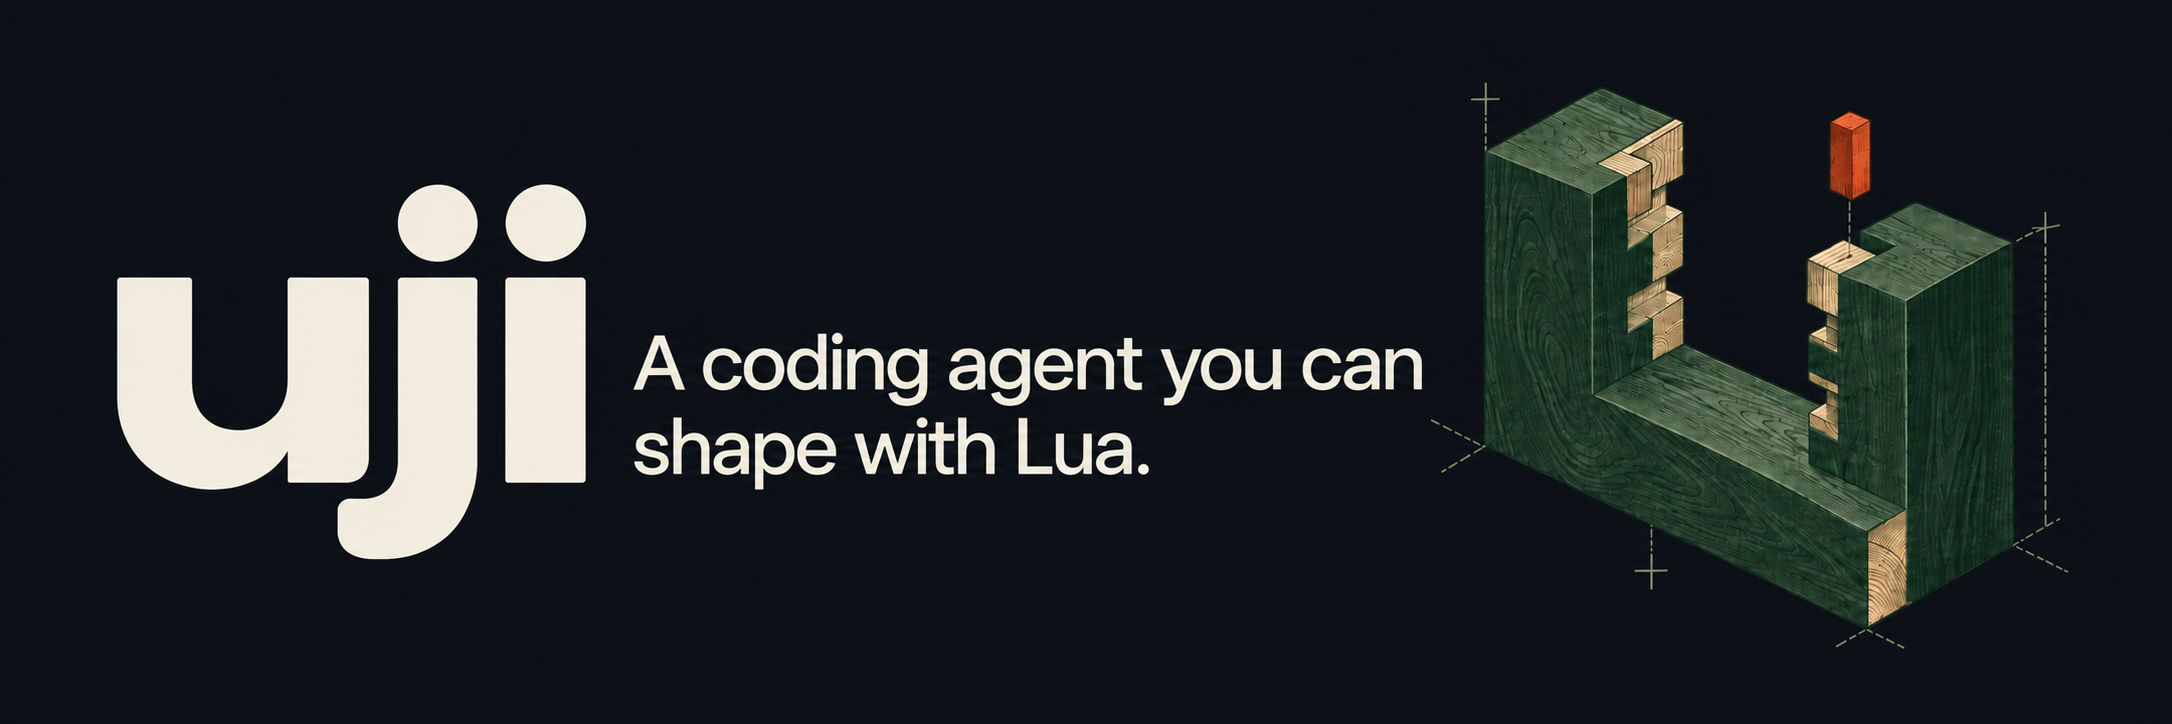
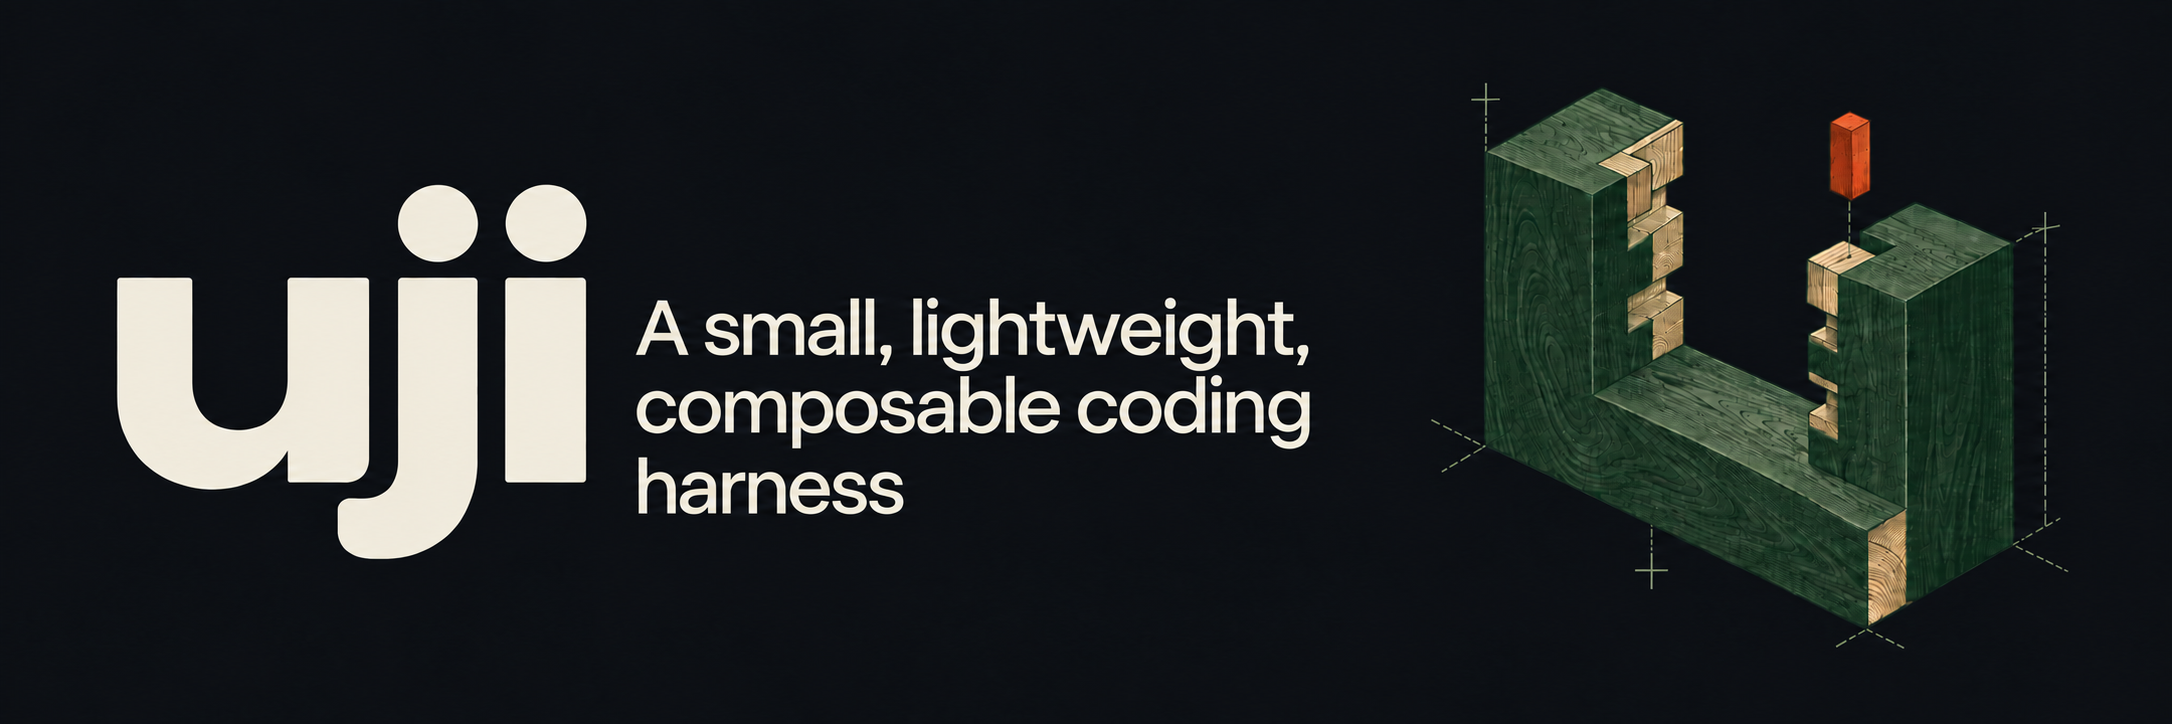
chore: fix the README text

diff --git a/README.md b/README.md
@@ -1,6 +1,6 @@
 <picture>
   <source media="(prefers-color-scheme: dark)" srcset="design/joinery/readme-header-dark.png">
-  <img src="design/joinery/readme-header-light.png" width="640" alt="uji. A coding agent you can shape with Lua.">
+  <img src="design/joinery/readme-header-light.png" width="640" alt="uji. A small, lightweight, composable coding harness">
 </picture>
 
 God's chosen harness.
